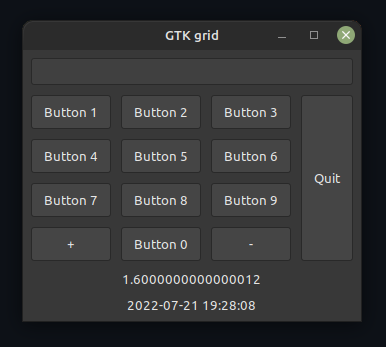
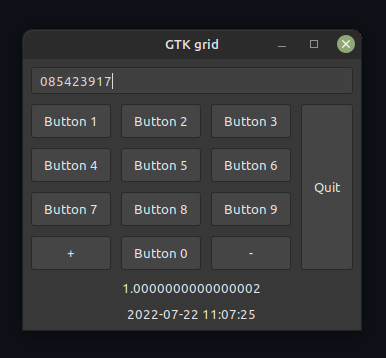
entry works

diff --git a/src/gui.rs b/src/gui.rs
@@ -48,19 +48,66 @@ pub fn build_ui(application: &gtk::Application) {
     let button_0 = create_button("Button 0");
 
     // --> BUTTON FUNCTION
-    button_1.connect_clicked(move |_| println!("Button 1"));
-    button_2.connect_clicked(move |_| println!("Button 2"));
-    button_3.connect_clicked(move |_| println!("Button 3"));
-    button_4.connect_clicked(move |_| println!("Button 4"));
-    button_5.connect_clicked(move |_| println!("Button 5"));
-    button_6.connect_clicked(move |_| println!("Button 6"));
-    button_7.connect_clicked(move |_| println!("Button 7"));
-    button_8.connect_clicked(move |_| println!("Button 8"));
-    button_9.connect_clicked(move |_| println!("Button 9"));
-    button_0.connect_clicked(move |_| {
-        let i: u8 = rand::random();
-        println!("Button 0: {}", i)
-    });
+    button_1.connect_clicked(clone!(
+        @strong entry =>
+        move |_| {
+            entry.insert_text("1", &mut -1);
+        }
+    ));
+    button_2.connect_clicked(clone!(
+        @strong entry =>
+        move |_| {
+            entry.insert_text("2", &mut -1);
+        }
+    ));
+    button_3.connect_clicked(clone!(
+        @strong entry =>
+        move |_| {
+            entry.insert_text("3", &mut -1);
+        }
+    ));
+    button_4.connect_clicked(clone!(
+        @strong entry =>
+        move |_| {
+            entry.insert_text("4", &mut -1);
+        }
+    ));
+    button_5.connect_clicked(clone!(
+        @strong entry =>
+        move |_| {
+            entry.insert_text("5", &mut -1);
+        }
+    ));
+    button_6.connect_clicked(clone!(
+        @strong entry =>
+        move |_| {
+            entry.insert_text("6", &mut -1);
+        }
+    ));
+    button_7.connect_clicked(clone!(
+        @strong entry =>
+        move |_| {
+            entry.insert_text("7", &mut -1);
+        }
+    ));
+    button_8.connect_clicked(clone!(
+        @strong entry =>
+        move |_| {
+            entry.insert_text("8", &mut -1);
+        }
+    ));
+    button_9.connect_clicked(clone!(
+        @strong entry =>
+        move |_| {
+            entry.insert_text("9", &mut -1);
+        }
+    ));
+    button_0.connect_clicked(clone!(
+        @strong entry =>
+        move |_| {
+            entry.insert_text("0", &mut -1);
+        }
+    ));
   
     // --> EXTRA BUTTONS
     let counter_label = create_label(Some("0.0"));
